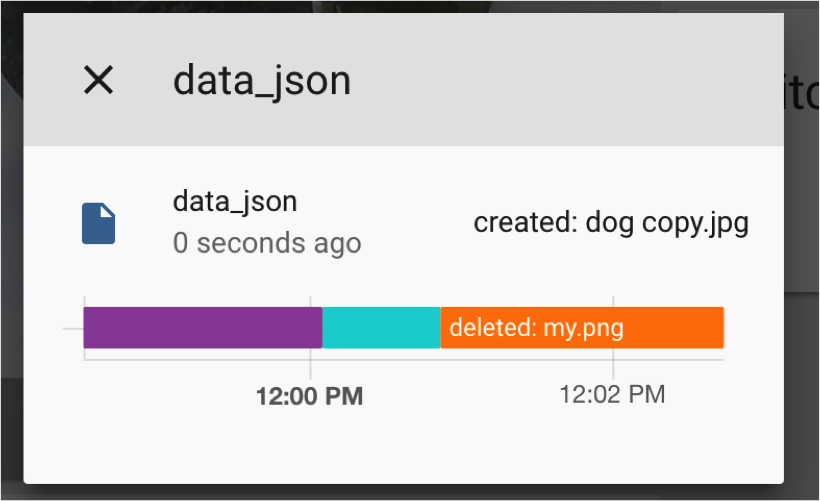
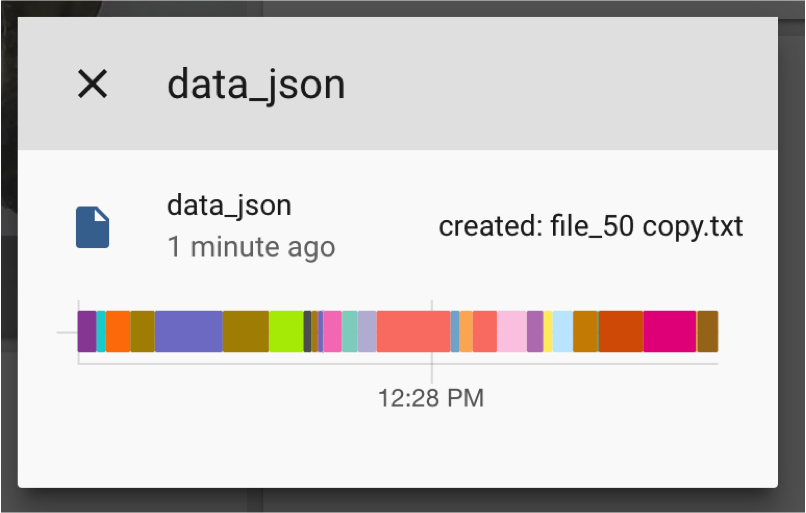
Update images

diff --git a/README.md b/README.md
@@ -20,7 +20,7 @@ shell_command:
   watchdog: python ~/.homeassistant/www/hass_watchdog.py /Users/robincole/.homeassistant/www
 ```
 
-Once I start creating/modifying files in the `www` folder, Watchdog starts populating `data.json`. The view of that file via the HA web GUI is shown below (I've got the code for the ipanel below).
+Once I start creating/modifying files in the `www` folder, Watchdog starts populating `data.json`. The view of that file via the HA web GUI is shown below (I've got the code for the panel_iframe below).
 
 <p align="center">
 <img src="https://github.com/robmarkcole/HASS-Watchdog/blob/master/images/data_json.png" width="900">
@@ -51,3 +51,6 @@ The final product is shown below:
 
 ### Summary
 We have seen how Home-Assistant can be configured to run Watchdog and display event data in the front end. This is a stepping stone towards a true integration of Watchdog with HA.
+
+### Caveats
+I've noticed that the panel_iframe can take up to a couple of minutes to update. However the sensor updates immediately.
